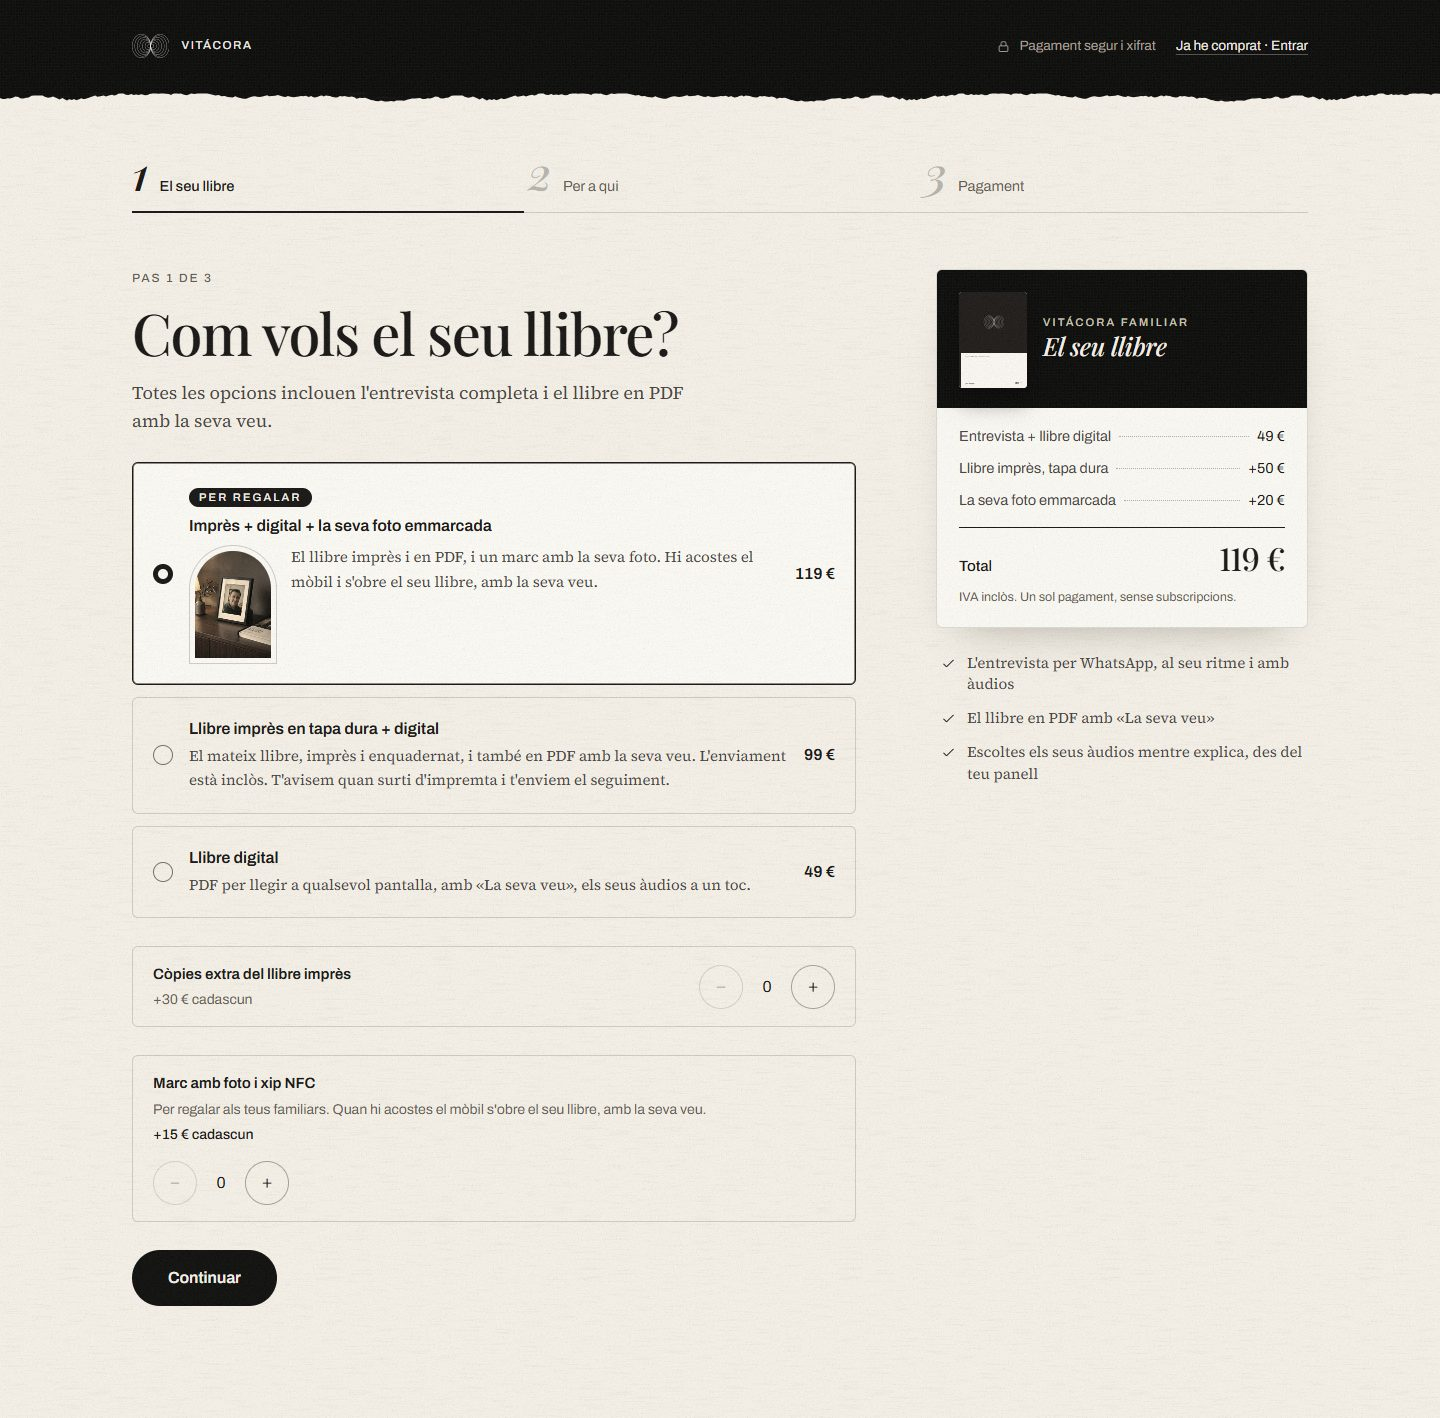
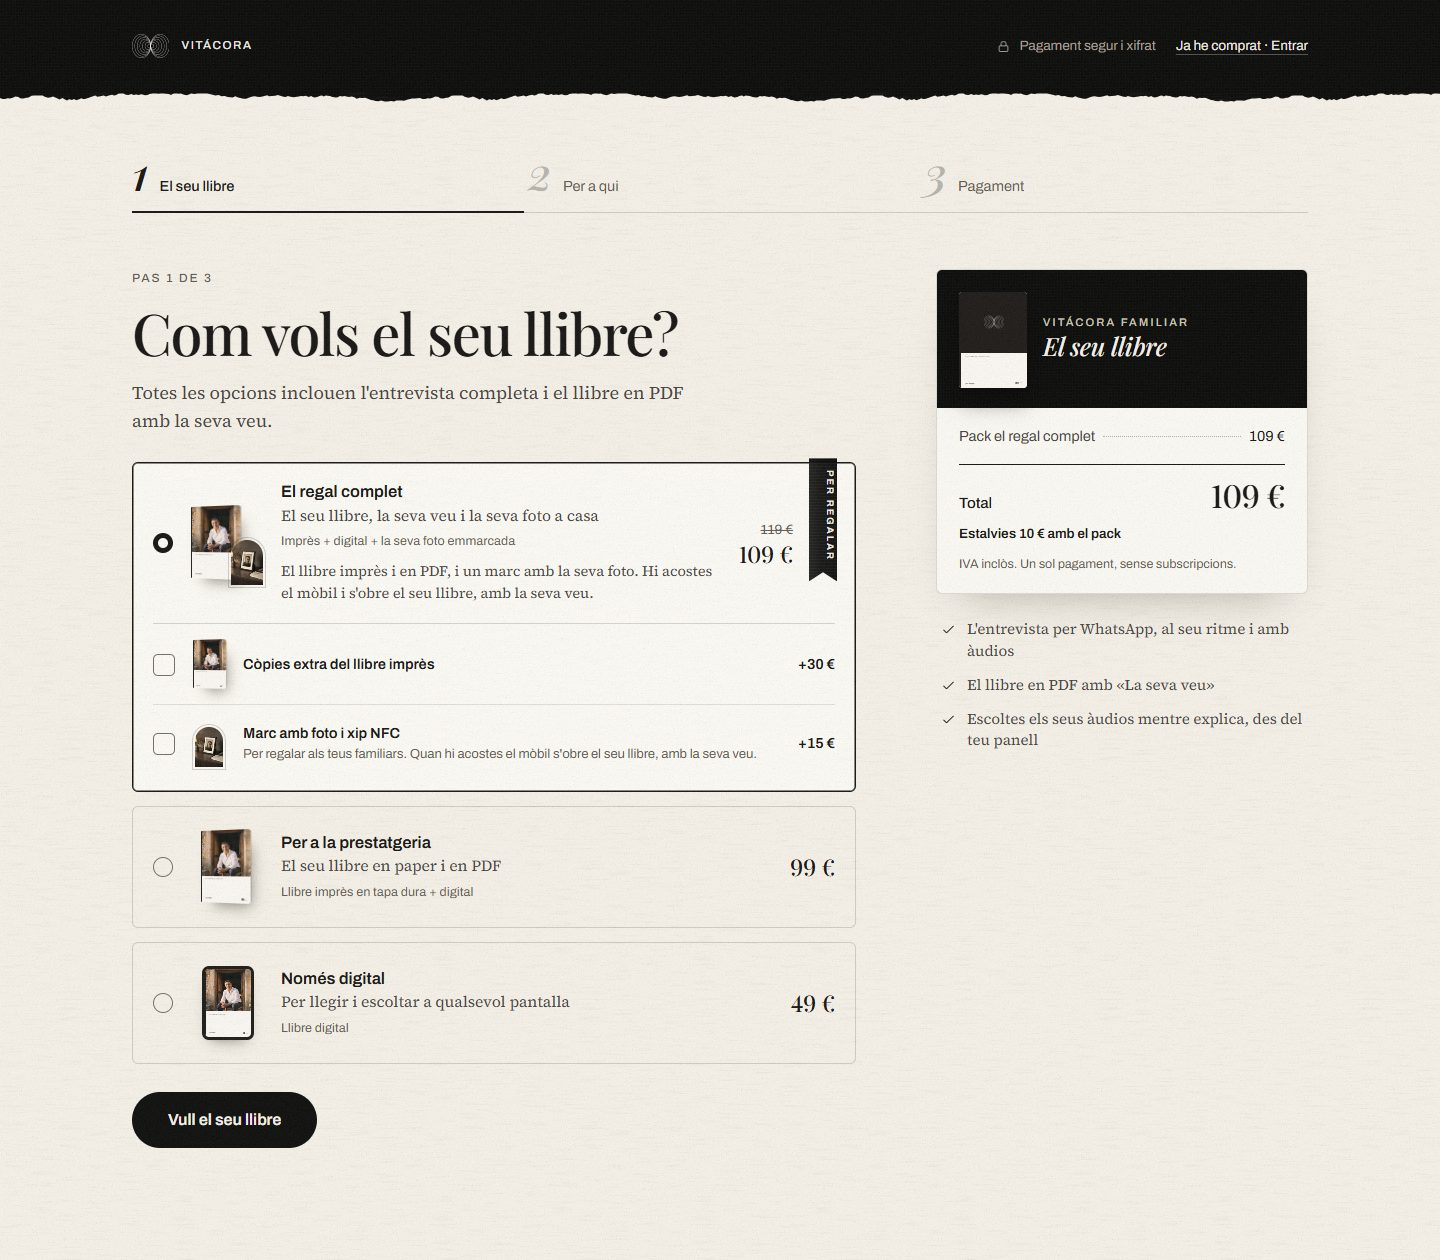
compras: la tapa chica con la calidad que acepta el optimizador, extras del teléfono alineados, capturas v3 y textos

diff --git a/web/src/app/_checkout/checkout.css b/web/src/app/_checkout/checkout.css
@@ -405,7 +405,7 @@
   .chk-op-tarjeta { grid-template-columns: 20px 60px minmax(0, 1fr); gap: 12px 14px; padding: 16px; align-items: start; }
   .chk-op-tarjeta--cinta { padding-right: 52px; }
   .chk-op-punto { margin-top: 2px; }
-  .chk-op-precio { grid-column: 3; flex-direction: row-reverse; align-items: baseline; justify-content: flex-end; gap: 10px; }
+  .chk-op-precio { grid-column: 3; flex-direction: row; align-items: baseline; justify-content: flex-start; gap: 10px; }
   .chk-mini { width: 60px; height: 72px; }
   .chk-mini-libro { left: 6px; width: 44px; }
   .chk-mini--pack .chk-mini-libro { left: 0; width: 40px; }
@@ -415,4 +415,6 @@
   .chk-extra-marca { grid-template-columns: 22px 40px minmax(0, 1fr); }
   .chk-extra-precio { grid-column: 3; }
   .chk-mini--fila { width: 40px; height: 50px; }
+  /* El contador, debajo del texto de su fila (no contra el borde). */
+  .chk-extra-contador { margin-left: 86px; }
 }

diff --git a/web/src/app/_checkout/opciones-libro-ui.tsx b/web/src/app/_checkout/opciones-libro-ui.tsx
@@ -50,7 +50,8 @@ export type TextosOpciones = {
 type Tapa = { titulo: string; idioma: IdiomaLibro };
 
 /** La foto de tapa chica, ya optimizada (la tapa de las miniaturas mide ~60 px). */
-const TAPA_CHICA = "/_next/image?url=%2Frediseno%2Flibro-tapa-foto.jpg&w=128&q=70";
+// q=75: la única calidad que acepta el optimizador de imágenes (Next 16, sin `images.qualities`).
+const TAPA_CHICA = "/_next/image?url=%2Frediseno%2Flibro-tapa-foto.jpg&w=128&q=75";
 
 /** Las miniaturas: el libro en 3/4, el libro con su marco al lado, una pantalla con la tapa, o solo el marco. */
 function Miniatura({ tipo, tapa, foto }: { tipo: OpcionLibro | "copia" | "marco-solo"; tapa: Tapa; foto: string }) {

diff --git a/docs/rediseno-2026-10/fase-1/textos-checkout-marcos-y-barra.md b/docs/rediseno-2026-10/fase-1/textos-checkout-marcos-y-barra.md
@@ -18,3 +18,20 @@ Sin precio de marco adicional (`PRECIO_MARCO_ADICIONAL_*`) el servidor no cobra
 ni manda un segundo marco (`armarCompra`). Por eso, en ese caso, el contador de la
 opción 2 llega hasta 1 («+20 €») y la opción 3 no tiene contador. No es «el resto a
 precio de marco», como sugería el encargo: eso pediría cambiar la cuenta del cobro.
+
+## 2.ª parte (14/10): miniaturas, frases, extras adentro, cinta y pack
+
+| Dónde | es | ar | ca | Estado |
+|---|---|---|---|---|
+| Opción libro completo, cabeza / bajada | El regalo completo / Su libro, su voz y su foto en casa | igual | El regal complet / El seu llibre, la seva veu i la seva foto a casa | es y ar APROBADAS 14/10; ca pendiente nativa |
+| Opción impreso, cabeza / bajada | Para la estantería / Su libro en papel y en PDF | igual | Per a la prestatgeria / El seu llibre en paper i en PDF | es y ar APROBADAS; ca pendiente |
+| Opción digital, cabeza / bajada | Solo digital / Para leer y escuchar en cualquier pantalla | igual | Només digital / Per llegir i escoltar a qualsevol pantalla | es y ar APROBADAS; ca pendiente |
+| Botón del paso 1 (y barra del teléfono) | Quiero su libro · «Para mí»: Quiero mi libro | igual | Vull el seu llibre / Vull el meu llibre | es y ar APROBADOS; ca pendiente |
+| Cinta del libro completo | Para regalar | igual | Per regalar | Texto existente (`impresoEtiqueta`) |
+| Línea del ticket con pack | Pack el regalo completo | igual | Pack el regal complet | PENDIENTE OK |
+| Debajo del total, con pack | Ahorras {cifra} con el pack | Ahorrás {cifra} con el pack | Estalvies {cifra} amb el pack | PENDIENTE OK |
+| Filas de extras | «Copias extra del libro impreso» · «Marco con foto y chip NFC» + detalle | igual | igual que antes | Textos existentes / aprobados |
+
+Debajo de la cabeza y la bajada, cada opción sigue mostrando su título aprobado
+en chico, y la elegida, su detalle aprobado. Viaje: sin frases ni cinta (no
+estaban en el encargo); usa sus títulos de siempre como cabeza.
